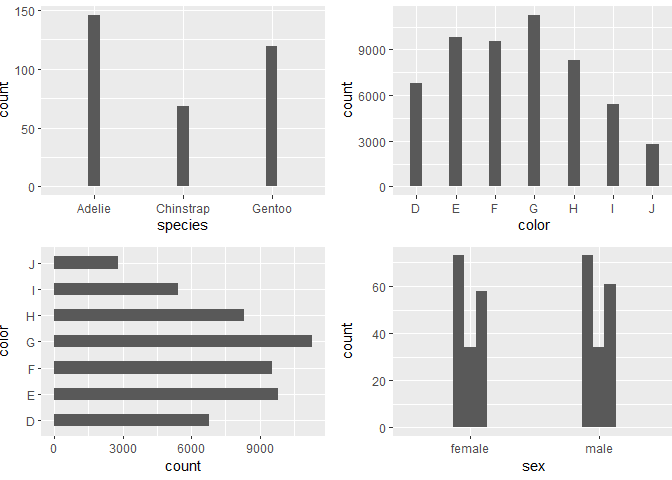
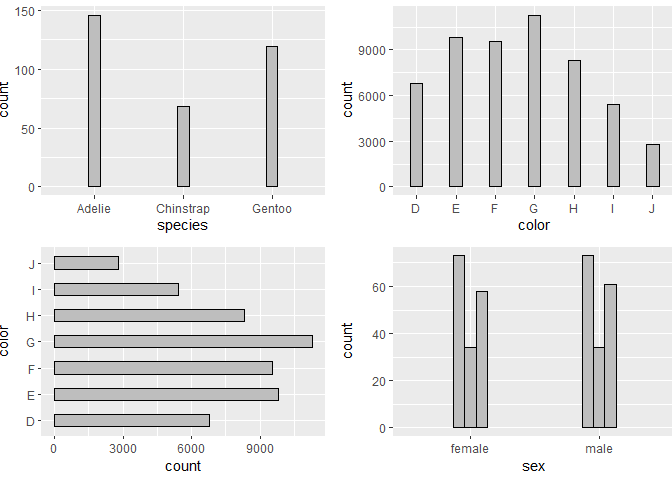
Update

diff --git a/README.md b/README.md
@@ -68,16 +68,24 @@ p1 <- palmerpenguins::penguins |>
   ggplot(aes(x = species)) +
   geom_bar(
     width = get_width(n = 3),
+    colour = "black", 
+    fill = "grey",
   )
 
 p2 <- diamonds |>
   ggplot(aes(x = color)) +
-  geom_bar(width = get_width(n = 7))
+  geom_bar(
+    width = get_width(n = 7),
+    colour = "black", 
+    fill = "grey",
+  )
 
 p3 <- diamonds |>
   ggplot(aes(y = color)) +
   geom_bar(
     width = get_width(n = 7, orientation = "y"),
+    colour = "black", 
+    fill = "grey",
   )
 
 p4 <- palmerpenguins::penguins |>
@@ -86,6 +94,8 @@ p4 <- palmerpenguins::penguins |>
   geom_bar(
     position = position_dodge(),
     width = get_width(n = 2, dodge_n = 3),
+    colour = "black", 
+    fill = "grey",
   )
 
 p1 + p2 + p3 + p4
@@ -111,6 +121,8 @@ d |>
   ggplot(aes(y = country, x = value)) +
   geom_col(
     width = get_width(n = max_n, orientation = "y"),
+    colour = "black", 
+    fill = "grey",
   ) +
   facet_wrap(~continent, scales = "free_y") +
   scale_y_discrete(continuous.limits = c(1, max_n)) +
@@ -125,6 +137,8 @@ palmerpenguins::penguins |>
   ggplot(aes(x = species)) +
   geom_bar(
     width = get_width(n = 3, panel_widths = unit(160, "mm")),
+    colour = "black", 
+    fill = "grey",
   ) +
   theme(panel.widths  = unit(160, "mm"))
 ```
